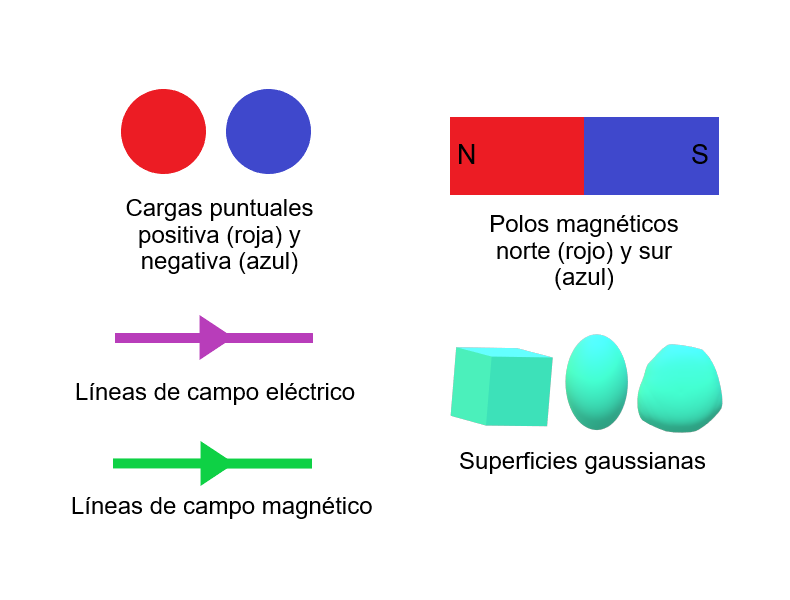
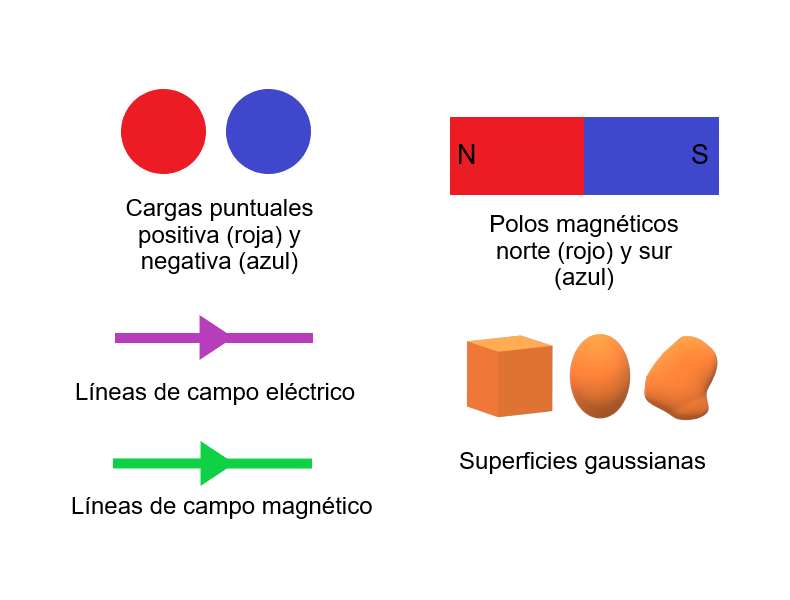
Nuevos colores sup. gaussianas, nuevas versiones apps, nueva bienvenida

Changed region(s): [[0.5468, 0.54, 0.9114, 0.72]]

diff --git a/Apps/index.html b/Apps/index.html
@@ -137,7 +137,7 @@
                                         <div class="col">
                                             <br>
                                             <p class="text-center" style="font-size: 18px;">
-                                                <a target="_blank" href="https://drive.google.com/file/d/1BvZE2SrRqlO9a5xWpNUTS9Uf-HNdu7jq/view?usp=sharing">Link
+                                                <a target="_blank" href="https://drive.google.com/file/d/1KPRkAJ_4h6-2OxHF4nbZCm91SKz0jWQv/view?usp=sharing">Link
                                                     de descarga EducAR</a>
                                             </p>
 
@@ -145,7 +145,7 @@
                                         <div class="col text-center">
                                             <br>
                                             <p class="text-center" style="font-size: 18px;">
-                                                <a target="_blank" href="https://drive.google.com/file/d/1KNS2Zdmj_zAzRkWAvBqAcBQTy2Z2TbgI/view?usp=sharing">Link
+                                                <a target="_blank" href="https://drive.google.com/file/d/1JH54QUMaJmKnwfzAucWqWjGEx34qmyTp/view?usp=sharing">Link
                                                     de descarga EducARv</a>
                                             </p>
                                             <!--   <p class="text-center" style="font-size: 18px;">
@@ -193,7 +193,7 @@
                                             necesario
                                             realizarlo la primera vez que uses la aplicación).</p>
                                         <p class="" style="font-size: 18px;">
-                                            Dentro de la pantalla de la visualización, encontrarás dos botones: </p>
+                                            Dentro de la pantalla de la visualización, encontrarás *tres botones: </p>
                                         <p class="" style="font-size: 18px;">
                                             Colores: al darle clic, desplegará una “tarjeta” con el significado de los
                                             colores usados en la
@@ -201,12 +201,15 @@
                                             el
                                             botón. </p>
                                         <p class="" style="font-size: 18px;">
-                                            Detalles: al darle clic, desplegará una “tarjeta” con una breve descripción
+                                            *Teoría: al darle clic, desplegará una “tarjeta” con una breve descripción
                                             de
                                             lo
                                             que la visualización está representando. Para ocultar la “tarjeta” haz clic
                                             una
                                             vez más sobre el botón.
+                                        </p>
+                                        <p class="" style="font-size: 18px;">
+                                            *Atras: al darle clic, te permitirá volver al menú con la lista de visualizaciones disponibles.
                                         </p>
                                         <p class="" style="font-size: 18px;">
                                             A continuación, se muestran instrucciones específicas sobre cómo usar cada
@@ -225,12 +228,12 @@
                                             <li>
                                                 <p class="" style="font-size: 18px;"> Haz clic en el botón de la
                                                     visualización
-                                                    en RA que te interesa observar. </p>
+                                                    que te interesa observar. </p>
                                             </li>
                                             <li>
                                                 <p class="" style="font-size: 18px;"> Cuando la cámara de tu dispositivo
                                                     comience a
-                                                    funcionar, coloca el marcador frente a ella para que sea reconocido.
+                                                    funcionar, coloca el siguiente marcador frente a ella para que sea reconocido.
                                                 </p>
                                             </li>
                                             <!--marcador imagen-->
@@ -249,7 +252,16 @@
                                                     cámara en distintas posiciones, acercarlo, alejarlo o girarlo de tal
                                                     forma que
                                                     puedas
-                                                    observar distintas partes o detalles en cada visualización.</p>
+                                                    observar distintas partes o detalles en cada visualización.
+                                                    <br>
+                                                    *Para observar distintas partes o detalles en cada visualización, puedes 
+                                                    mover el dispositivo respecto al marcador
+                                                    en distintas posiciones, acercarlo, alejarlo o girarlo. También puedes 
+                                                    usar dos dedos sobre la pantalla del dispositivo para modificar el aspecto
+                                                    del modelo tridimensional en la visualizacion; juntar los dedos para
+                                                    agrandarlo, juntar los dedos para
+                                                    volverlo más pequeño, o rotar los dedos para hacerlo rotar.
+                                                </p>
                                             </li>
                                             <li>
                                                 <p class="" style="font-size: 18px;">En las visualizaciones, indicamos
@@ -259,7 +271,7 @@
                                                     panorama
                                                     más completo
                                                     de
-                                                    estas cantidades puedes usar el botón de "Código ".
+                                                    estas cantidades puedes usar el botón de "Colores".
 
                                                 </p>
                                             </li>
@@ -294,7 +306,7 @@
                                             <li>
                                                 <p class="" style="font-size: 18px;">Puedes mover el dispositivo en
                                                     distintas posiciones, acercarlo, alejarlo o girarlo de tal forma que
-                                                    puedas observar distintas partes o detalles en cada visualización.
+                                                    puedas observar distintas partes o detalles en cada visualización.                                                    
                                                 </p>
                                             </li>
                                             <li>
@@ -302,7 +314,7 @@
                                                     con letras las cantidades físicas que representamos, pero para
                                                     obtener
                                                     un panorama más completo de estas cantidades puedes usar el botón de
-                                                    "Código".</p>
+                                                    "Colores".</p>
                                             </li>
                                         </ol>
                                     </div>

diff --git a/Ley Gauss M/index.html b/Ley Gauss M/index.html
@@ -49,7 +49,7 @@
             <div class="container rounded" id="Teoria">
                 <div class="container">
                     <p class="" style="font-size: 20px;">
-                    Te presentamos algunas visualizaciones en realidad aumentada (RA)
+                    <b><i>Bienvenidx</i></b>. Te presentamos algunas visualizaciones en realidad aumentada (RA)
                     acerca de los principales conceptos relacionados con la ley de 
                     Gauss aplicada a campos magnéticos. Lo que aquí llamamos visualizaciones
                     es la presentación de imágenes tridimensionales de conceptos abstractos.
@@ -361,7 +361,7 @@
             <br>
             <!--Instrucciones Visualizaciones -->
             <div class="container" id="Instrucciones">
-                <h2 class="linea_titule text-center my-4">Instrucciones para usar las visualizaciones</h2>
+                <h2 class="linea_titule text-center my-4">Instrucciones para acceder a las visualizaciones</h2>
                 <p class="" style="font-size: 20px; line-height: 34px;">Para poder observar cualquiera de las
                     visualizaciones en
                     realidad aumentada (RA) que aparecen en esta página de internet necesitas contar con:

diff --git a/Gauss/index.html b/Gauss/index.html
@@ -647,7 +647,7 @@
             <br>
             <!--Instrucciones Visualizaciones -->
             <div class="container" id="Instrucciones">
-                <h2 class="linea_titule text-center my-4">Instrucciones para usar las visualizaciones</h2>
+                <h2 class="linea_titule text-center my-4">Instrucciones para acceder a las visualizaciones</h2>
                 <p class="" style="font-size: 20px; line-height: 34px; color:#777777;">Para poder observar cualquiera de las
                     visualizaciones en
                     RA que aparecen en esta página de internet necesitas contar con:
